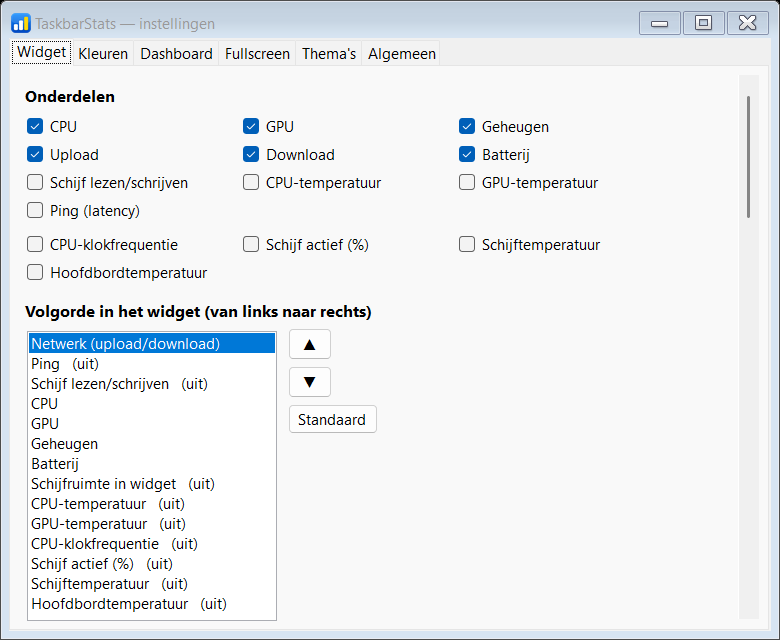
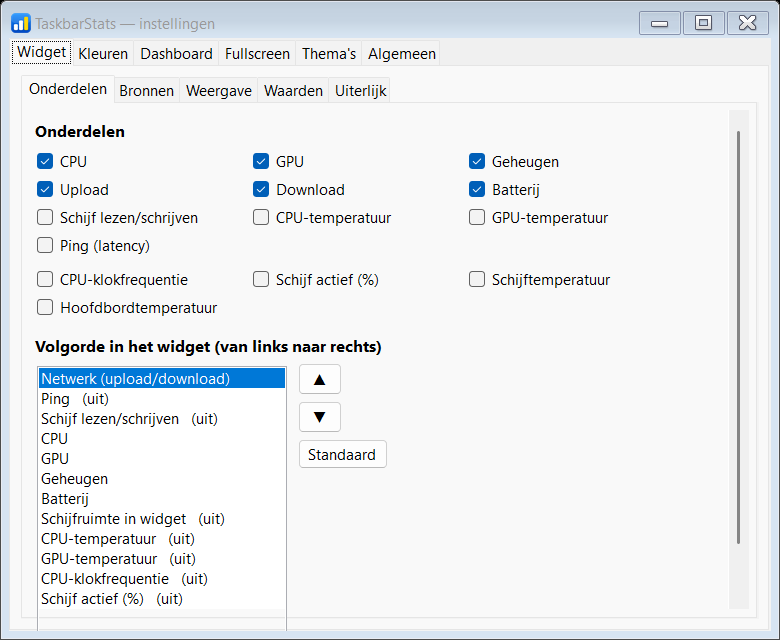
Instellingen: subtabs voor Widget, grafieklengte, vastplakken aan systeemvak (vervangt Reset positie), welkomstscherm via Over

diff --git a/src/WelcomeForm.cs b/src/WelcomeForm.cs
@@ -105,33 +105,18 @@ public sealed class WelcomeForm : Form
              "en een losse), dan volgt het widget automatisch de kaart die het drukst is.", bullet: true);
         Para("Geheugen (RAM): hoeveel procent er in gebruik is en hoeveel GB.", bullet: true);
         Para("Netwerk: de snelheid van upload en download, per netwerkadapter of van alle adapters samen.", bullet: true);
-        Para("Schijven: de lees- en schrijfsnelheid en hoeveel ruimte er nog vrij is.", bullet: true);
-        Para("Batterij (op een laptop): het niveau, en of de accu laadt of de lader is aangesloten.", bullet: true);
-        Para("Temperatuur van de processor en videokaart (optioneel).", bullet: true);
 
-        Heading("Kloppen de cijfers wel?");
-        Para("Ja. De waarden komen uit dezelfde bronnen als Taakbeheer van Windows. Wat je hier ziet, komt dus overeen met wat " +
-             "Windows zelf laat zien.");
-
-        Heading("Meer dan alleen kijken");
-        Para("Verbruik: het programma houdt per dag en per netwerkadapter bij hoeveel je hebt ontvangen en verzonden. Je kunt het " +
-             "log bekijken, exporteren en een maandlimiet voor je data instellen.", bullet: true);
-        Para("Meldingen: je krijgt een seintje als een schijf bijna vol is, de processor of videokaart langere tijd op maximaal " +
-             "draait, de batterij bijna leeg is of je maandlimiet in zicht komt.", bullet: true);
-        Para("Aanpasbaar: kies zelf de onderdelen, de weergave (cijfers, meter of balk), kleuren, lettertype, grootte en een " +
-             "transparante achtergrond. Het menu is in het Nederlands of Engels.", bullet: true);
+        Para("De waarden komen uit dezelfde bronnen als Taakbeheer van Windows. Ook: verbruik per dag, meldingen en veel aanpasbaar (onderdelen, cijfers, meter, balk of grafiek, kleuren, thema's).");
 
         Heading("Zo gebruik je het");
         Para("Verplaatsen: houd de linkermuisknop ingedrukt en sleep het widget. Je kunt het overal neerzetten; met " +
              "\"Positie vergrendelen\" zet je het vast.", bullet: true);
         Para("Instellingen: klik met de rechtermuisknop op het widget en kies \"Instellingen…\": uiterlijk, kleuren, indeling en thema's, allemaal met direct effect. Het menu zelf blijft open terwijl je meerdere dingen kiest.", bullet: true);
-        Para("Details: houd de muis erboven voor een tooltip met alle informatie. De middelste muisknop kopieert die naar het klembord.", bullet: true);
-        Para("Dubbelklik: opent Taakbeheer.", bullet: true);
         Para("Dashboard: zet via het menu (Bureaublad-dashboard) een groot dashboard op je bureaublad, en druk op Ctrl+Alt+F voor een " +
              "fullscreen overzicht met alle details. Klik daarin op een tegel voor meer, druk op I voor alle specificaties van je pc, of klik 3× op een lege plek (of druk op spatie) voor een automatische tour; Esc gaat terug.", bullet: true);
 
         Para("");
-        Para("Deze uitleg vind je later terug via het menu: \"Welkomstscherm\", \"Leesmij en credits\" en \"Over TaskbarStats\".");
+        Para("Deze uitleg vind je later terug via \"Over TaskbarStats\" in het menu (knop Welkomstscherm).");
     }
 
     private void FillEn()
@@ -147,31 +132,16 @@ public sealed class WelcomeForm : Form
              "and a dedicated one), the widget automatically follows the busiest card.", bullet: true);
         Para("Memory (RAM): the percentage in use and the amount in GB.", bullet: true);
         Para("Network: upload and download speed, per network adapter or all adapters combined.", bullet: true);
-        Para("Disks: read and write speed and how much space is left.", bullet: true);
-        Para("Battery (on a laptop): the level, and whether it is charging or plugged in.", bullet: true);
-        Para("Temperature of the processor and graphics card (optional).", bullet: true);
 
-        Heading("Are the numbers accurate?");
-        Para("Yes. The values come from the same sources as Windows Task Manager, so what you see here matches what Windows " +
-             "itself shows.");
-
-        Heading("More than just looking");
-        Para("Usage: the program keeps track, per day and per network adapter, of how much you received and sent. You can view " +
-             "and export the log and set a monthly data limit.", bullet: true);
-        Para("Notifications: you get an alert when a disk is almost full, the processor or graphics card runs at maximum for a " +
-             "while, the battery is low or your monthly limit is getting close.", bullet: true);
-        Para("Customisable: choose the components, the display (numbers, gauge or bar), colours, font, size and a transparent " +
-             "background. The menu is available in Dutch or English.", bullet: true);
+        Para("The values come from the same sources as Windows Task Manager. Also: usage per day, notifications and lots of options (components, numbers, gauge, bar or graph, colours, themes).");
 
         Heading("How to use it");
         Para("Move it: hold the left mouse button and drag the widget. Place it anywhere; use \"Lock position\" to fix it.", bullet: true);
         Para("Settings: right-click the widget and choose \"Settings…\": looks, colors, layout and themes, all with immediate effect. The menu itself stays open while you pick several options.", bullet: true);
-        Para("Details: hover for a tooltip with all information. Middle-click copies it to the clipboard.", bullet: true);
-        Para("Double-click: opens Task Manager.", bullet: true);
         Para("Dashboard: use the menu (Desktop dashboard) to put a large dashboard on your desktop, and press Ctrl+Alt+F for a " +
              "fullscreen overview with all the details. Click a tile inside for more, press I for all your PC specifications, or click 3 times on an empty spot (or press space) for an automatic tour; Esc goes back.", bullet: true);
 
         Para("");
-        Para("You can find this explanation again in the menu: \"Welcome screen\", \"Readme and credits\" and \"About TaskbarStats\".");
+        Para("You can find this explanation again via \"About TaskbarStats\" in the menu (Welcome screen button).");
     }
 }

diff --git a/src/SettingsForm.cs b/src/SettingsForm.cs
@@ -313,10 +313,8 @@ public sealed partial class SettingsForm : Form
         p.Controls.Add(Check(Loc.S("startup"), StartupManager.IsEnabled(), v => StartupManager.Set(v)));
         p.Controls.Add(Check(Loc.Pick("Positie vergrendelen", "Lock position"), _c.LockPosition, v => _c.LockPosition = v));
         p.Controls.Add(Check(Loc.Pick("Verbergen bij volledig scherm", "Hide in full screen"), _c.HideInFullscreen, v => _c.HideInFullscreen = v));
-        var reset = Btn(Loc.S("resetPos"), 170);
-        reset.Margin = new Padding(3, 6, 3, 3);
-        reset.Click += (_, _) => _h.ResetWidget();
-        p.Controls.Add(reset);
+        p.Controls.Add(Check(Loc.Pick("Vastplakken aan het systeemvak (volgt het systeemvak)", "Stick to the notification area (follows it)"), _c.StickToTray, v => _c.StickToTray = v));
+        p.Controls.Add(Note(Loc.Pick("Het widget blijft tegen het systeemvak staan, ook als dat verschuift. Verslepen zet dit weer uit.", "The widget stays next to the notification area, even when it moves. Dragging turns this off.")));
 
         p.Controls.Add(Head(Loc.Pick("Tooltip boven het widget", "Tooltip over the widget")));
         var delays = new (string, int)[]
@@ -358,6 +356,10 @@ public sealed partial class SettingsForm : Form
     private TabPage WidgetTab()
     {
         var p = Page(Loc.Pick("Widget", "Widget"), out var tab);
+        var sub = new TabControl { Dock = DockStyle.Fill };
+        tab.Controls.Clear();
+        tab.Controls.Add(sub);
+        p = SubPage(sub, Loc.Pick("Onderdelen", "Components"));
 
         p.Controls.Add(Head(Loc.S("components")));
         p.Controls.Add(Grid(
@@ -376,6 +378,7 @@ public sealed partial class SettingsForm : Form
         p.Controls.Add(Head(Loc.Pick("Volgorde in het widget (van links naar rechts)", "Order in the widget (left to right)")));
         p.Controls.Add(WidgetOrderEditor());
 
+        p = SubPage(sub, Loc.Pick("Bronnen", "Sources"));
         // Bronnen: welke GPU, netwerkadapter en schijven het widget toont (hoort bij de vinkjes hierboven).
         p.Controls.Add(Head(Loc.Pick("Bronnen", "Sources")));
         var gpuItems = new List<(string, string)> { (Loc.Pick("Automatisch (drukste)", "Automatic (busiest)"), "") };
@@ -439,6 +442,7 @@ public sealed partial class SettingsForm : Form
             driveBox.Enabled = _c.DiskSpace == DiskSpaceMode.Single;
         });
 
+        p = SubPage(sub, Loc.Pick("Weergave", "Display"));
         p.Controls.Add(Head(Loc.S("display")));
         var styles = new (string, DisplayStyle)[] { (Loc.S("digital"), DisplayStyle.Digital), (Loc.S("gauge"), DisplayStyle.Gauge), (Loc.S("bar"), DisplayStyle.Bar), (Loc.Pick("Grafiek", "Graph"), DisplayStyle.Graph) };
         var cpuStyle = Seg(styles, () => _c.CpuStyle, v => _c.CpuStyle = v);
@@ -480,8 +484,10 @@ public sealed partial class SettingsForm : Form
         }, ColW);
         p.Controls.Add(Grid(labels, compact, Check(Loc.S("transparent"), _c.TransparentBackground, v => _c.TransparentBackground = v, ColW)));
 
+        p = SubPage(sub, Loc.Pick("Waarden", "Values"));
         AddValueSettings(p);
 
+        p = SubPage(sub, Loc.Pick("Uiterlijk", "Appearance"));
         p.Controls.Add(Head(Loc.Pick("Afmetingen en lettertype", "Size and font")));
         var heights = new List<(string, int)> { (Loc.Pick("Auto", "Auto"), 0) };
         foreach (int h in new[] { 32, 36, 40, 44, 48, 56, 64 }) heights.Add(($"{h}", h));
@@ -519,6 +525,8 @@ public sealed partial class SettingsForm : Form
             batt.Enabled = _c.ShowBattery;
             labels.Enabled = !_c.Compact;
         });
+        sub.SelectedIndex = Math.Clamp(_widgetSub, 0, sub.TabPages.Count - 1);
+        sub.SelectedIndexChanged += (_, _) => { if (!_building) _widgetSub = sub.SelectedIndex; };
         return tab;
     }
 

diff --git a/src/WidgetForm.cs b/src/WidgetForm.cs
@@ -161,7 +161,10 @@ public sealed partial class WidgetForm : Form
         base.OnShown(e);
         Height = TargetHeight();
         if (_cfg.FloatX is null || _cfg.FloatY is null)
+        {
             (_cfg.FloatX, _cfg.FloatY) = ComputeDefaultPosition();
+            _cfg.StickToTray = true;   // nieuwe installatie: tegen het systeemvak blijven staan
+        }
         Location = new Point(_cfg.FloatX!.Value, _cfg.FloatY!.Value);
         // Stond het widget op een scherm dat er niet meer is? Dan terug naar de standaardpositie.
         if (!Screen.AllScreens.Any(sc => sc.Bounds.IntersectsWith(Bounds)))
@@ -212,6 +215,7 @@ public sealed partial class WidgetForm : Form
         _idle = !Visible && _dash is not { Visible: true } && _full is null;
         _metrics.Ping.Idle = _idle;
         if (_idle) { CheckAlerts(); return; }
+        FollowTray();
         _history.Sample(_metrics);
         SampleGraph();
         if (_hover && Environment.TickCount64 - _procAt >= 700) { _procAt = Environment.TickCount64; _procs.SampleAsync(); }
@@ -678,6 +682,7 @@ public sealed partial class WidgetForm : Form
     /// <summary>Past alle instellingen toe op widget, dashboard en fullscreen-scherm (aangeroepen door het instellingenvenster).</summary>
     private void ApplyAll()
     {
+        if (_cfg.StickToTray) FollowTray(true);
         BackColor = EffectiveBackground();
         WinThemeRefresh();
         ApplyHeight();
@@ -1248,6 +1253,7 @@ public sealed partial class WidgetForm : Form
     {
         if (_dragging)
         {
+            if (_cfg.StickToTray) _cfg.StickToTray = false;   // zelf verplaatst: niet meer vastplakken
             Location = new Point(Location.X + e.X - _dragStart.X, Location.Y + e.Y - _dragStart.Y);
             _cfg.FloatX = Location.X; _cfg.FloatY = Location.Y;
         }
@@ -1377,19 +1383,15 @@ public sealed partial class WidgetForm : Form
         menu.Items.Add(BuildFullMenu());
         menu.Items.Add(BuildTourMenu());
 
-        var resetItem = new ToolStripMenuItem(Loc.S("resetPos")) { Tag = "close" };
-        resetItem.Click += (_, _) => ResetWidgetPosition();
-        menu.Items.Add(resetItem);
+        var stickItem = new ToolStripMenuItem(Loc.Pick("Vastplakken aan systeemvak", "Stick to notification area")) { Tag = "close", Checked = _cfg.StickToTray };
+        stickItem.Click += (_, _) => SetStickToTray(!_cfg.StickToTray);
+        menu.Items.Add(stickItem);
         AddClickThroughMenuItem(menu);
 
         menu.Items.Add(new ToolStripSeparator());
         var copy = new ToolStripMenuItem(Loc.Pick("Kopieer info naar klembord", "Copy info to clipboard")) { Tag = "close" };
         copy.Click += (_, _) => CopyInfo();
         menu.Items.Add(copy);
-
-        var welcome = new ToolStripMenuItem(Loc.Pick("Welkomstscherm", "Welcome screen")) { Tag = "close" };
-        welcome.Click += (_, _) => ShowWelcome();
-        menu.Items.Add(welcome);
 
         var readme = new ToolStripMenuItem(Loc.Pick("Leesmij en credits", "Readme and credits")) { Tag = "close" };
         readme.Click += (_, _) =>
@@ -1401,7 +1403,7 @@ public sealed partial class WidgetForm : Form
         menu.Items.Add(readme);
 
         var about = new ToolStripMenuItem(Loc.Pick("Over TaskbarStats…", "About TaskbarStats…")) { Tag = "close" };
-        about.Click += (_, _) => { using var f = new AboutForm(); f.ShowDialog(this); };
+        about.Click += (_, _) => { using var f = new AboutForm(() => BeginInvoke(new Action(ShowWelcome))); f.ShowDialog(this); };
         menu.Items.Add(about);
 
         menu.Items.Add(new ToolStripSeparator());

diff --git a/src/Themes.cs b/src/Themes.cs
@@ -26,6 +26,7 @@ public sealed partial class ThemeData
     public DisplayStyle GpuTempStyle { get; set; }
     public bool TempMerge { get; set; }
     public int GraphSeconds { get; set; } = 60;
+    public GraphLen GraphLength { get; set; } = GraphLen.Medium;
     public TextGraphStyle NetStyle { get; set; }
     public TextGraphStyle PingStyle { get; set; }
     public bool CpuPerCore { get; set; }
@@ -70,7 +71,7 @@ public sealed partial class ThemeData
             ShowCpuFreq = c.ShowCpuFreq, ShowDiskBusy = c.ShowDiskBusy, DiskBusyStyle = c.DiskBusyStyle, ShowDiskTemp = c.ShowDiskTemp, ShowMoboTemp = c.ShowMoboTemp,
             CpuStyle = c.CpuStyle, GpuStyle = c.GpuStyle, MemStyle = c.MemStyle, CpuPerCore = c.CpuPerCore,
             CpuTempStyle = c.CpuTempStyle, GpuTempStyle = c.GpuTempStyle, TempMerge = c.TempMerge,
-            GraphSeconds = c.GraphSeconds, NetStyle = c.NetStyle, PingStyle = c.PingStyle,
+            GraphSeconds = c.GraphSeconds, GraphLength = c.GraphLength, NetStyle = c.NetStyle, PingStyle = c.PingStyle,
             BatteryPercent = c.BatteryPercent, LabelsAbove = c.LabelsAbove, Compact = c.Compact, AutoHeight = c.AutoHeight,
             WidgetHeight = c.WidgetHeight, FontFamily = c.FontFamily, FontSize = c.FontSize, TransparentBackground = c.TransparentBackground,
             TextColor = c.TextColor, BackgroundColor = c.BackgroundColor, AccentColor = c.AccentColor, WarnColor = c.WarnColor,
@@ -91,7 +92,7 @@ public sealed partial class ThemeData
         c.ShowCpuFreq = ShowCpuFreq; c.ShowDiskBusy = ShowDiskBusy; c.DiskBusyStyle = DiskBusyStyle; c.ShowDiskTemp = ShowDiskTemp; c.ShowMoboTemp = ShowMoboTemp;
         c.CpuStyle = CpuStyle; c.GpuStyle = GpuStyle; c.MemStyle = MemStyle; c.CpuPerCore = CpuPerCore;
         c.CpuTempStyle = CpuTempStyle; c.GpuTempStyle = GpuTempStyle; c.TempMerge = TempMerge;
-        c.GraphSeconds = GraphSeconds <= 30 ? 30 : GraphSeconds >= 120 ? 120 : 60; c.NetStyle = NetStyle; c.PingStyle = PingStyle;
+        c.GraphSeconds = GraphSeconds <= 30 ? 30 : GraphSeconds >= 120 ? 120 : 60; c.GraphLength = GraphLength; c.NetStyle = NetStyle; c.PingStyle = PingStyle;
         c.BatteryPercent = BatteryPercent; c.Compact = Compact; c.LabelsAbove = LabelsAbove || Compact;   // compact hoort bij labels boven
         c.AutoHeight = AutoHeight;
         c.WidgetHeight = Math.Clamp(WidgetHeight, 24, 96);

diff --git a/src/SettingsForm.Graph.cs b/src/SettingsForm.Graph.cs
@@ -16,7 +16,12 @@ public sealed partial class SettingsForm
         p.Controls.Add(Row(Loc.Pick("Netwerk", "Network"), netStyle));
         p.Controls.Add(Row(Loc.Pick("Netwerkgrafiek: schaal", "Network graph: scale"), netMax));
         p.Controls.Add(Row("Ping", pingStyle));
-        p.Controls.Add(Row(Loc.Pick("Grafiek toont de laatste", "Graph shows the last"), secs));
+        var len = Seg(new (string, GraphLen)[]
+        {
+            (Loc.Pick("Kort", "Short"), GraphLen.Short), (Loc.Pick("Middel", "Medium"), GraphLen.Medium), (Loc.Pick("Lang", "Long"), GraphLen.Long),
+        }, () => _c.GraphLength, v => _c.GraphLength = v, 76);
+        p.Controls.Add(Row(Loc.Pick("Lengte van de grafiek", "Graph length"), len));
+        p.Controls.Add(Row(Loc.Pick("Periode: de laatste", "Period: the last"), secs));
         Dep(() =>
         {
             netStyle.Enabled = _c.ShowNetUp || _c.ShowNetDown;
@@ -29,7 +34,7 @@ public sealed partial class SettingsForm
             bool gt = _c.ShowGpuTemp && !(_c.TempMerge && _c.ShowGpu) && _c.GpuTempStyle == DisplayStyle.Graph;
             bool net = netStyle.Enabled && _c.NetStyle == TextGraphStyle.Graph;
             bool ping = _c.ShowPing && _c.PingStyle == TextGraphStyle.Graph;
-            secs.Enabled = cpu || gpu || mem || ct || gt || net || ping;
+            secs.Enabled = len.Enabled = cpu || gpu || mem || ct || gt || net || ping;
         });
     }
 }

diff --git a/src/AboutForm.cs b/src/AboutForm.cs
@@ -14,7 +14,7 @@ public sealed class AboutForm : Form
         }
     }
 
-    public AboutForm()
+    public AboutForm(Action? showWelcome = null)
     {
         AppIcon.Apply(this);
         Text = Loc.Pick("Over TaskbarStats", "About TaskbarStats");
@@ -64,10 +64,18 @@ public sealed class AboutForm : Form
             Location = new Point(464, 458),
             Size = new Size(80, 28),
         };
+        var welcome = new Button
+        {
+            Text = Loc.Pick("Welkomstscherm…", "Welcome screen…"),
+            Location = new Point(16, 458),
+            Size = new Size(150, 28),
+            Visible = showWelcome is not null,
+        };
+        welcome.Click += (_, _) => { DialogResult = DialogResult.OK; Close(); showWelcome?.Invoke(); };
         AcceptButton = ok;
         CancelButton = ok;
 
-        Controls.AddRange(new Control[] { title, version, box, ok });
+        Controls.AddRange(new Control[] { title, version, box, welcome, ok });
     }
 
     private static string Body() => Loc.Lang == "en" ? BodyEn : BodyNl;

diff --git a/src/AppSettings.Graph.cs b/src/AppSettings.Graph.cs
@@ -3,10 +3,14 @@ namespace TaskbarStats;
 /// <summary>Weergave voor onderdelen die alleen cijfers of een grafiek kennen (netwerk, ping).</summary>
 public enum TextGraphStyle { Digital, Graph }
 
+/// <summary>Breedte van een grafiekje in het widget.</summary>
+public enum GraphLen { Short, Medium, Long }
+
 // Instellingen voor de mini-geschiedenisgrafiek in het taakbalk-widget.
 public sealed partial class AppSettings
 {
     public int GraphSeconds { get; set; } = 60;                    // hoeveel seconden de grafiek toont (30/60/120)
+    public GraphLen GraphLength { get; set; } = GraphLen.Medium;    // breedte van het grafiekje: kort / middel / lang
     public TextGraphStyle NetStyle { get; set; } = TextGraphStyle.Digital;
     public TextGraphStyle PingStyle { get; set; } = TextGraphStyle.Digital;
     public int NetGraphMaxMBps { get; set; } = 0;                  // schaal van de netwerkgrafiek in MB/s; 0 = automatisch

diff --git a/src/WidgetForm.Stick.cs b/src/WidgetForm.Stick.cs
@@ -1,0 +1,23 @@
+namespace TaskbarStats;
+
+// Vastplakken aan het systeemvak: de rechterrand van het widget blijft tegen het vak staan.
+public sealed partial class WidgetForm
+{
+    private void SetStickToTray(bool on)
+    {
+        _cfg.StickToTray = on;
+        if (on) FollowTray(true);
+        Persist();
+    }
+
+    // Het systeemvak verschuift door pictogrammen, taakbalkgrootte, schaling of schermresolutie: volg het.
+    private void FollowTray(bool force = false)
+    {
+        if (!_cfg.StickToTray || _dragging || _fxOn || !IsHandleCreated) return;
+        if (!TaskbarHost.TryGetTrayRect(out _)) return;   // geen systeemvak gevonden (bv. Verkenner herstart): laat staan
+        var (x, y) = ComputeDefaultPosition();
+        if (!force && Location.X == x && Location.Y == y) return;
+        Location = new Point(x, y);
+        _cfg.FloatX = x; _cfg.FloatY = y;
+    }
+}

diff --git a/src/SettingsForm.Sub.cs b/src/SettingsForm.Sub.cs
@@ -1,0 +1,16 @@
+namespace TaskbarStats;
+
+// Hulp voor subtabbladen (het tabblad Widget is verdeeld in Onderdelen, Bronnen, Weergave, Waarden en Uiterlijk).
+public sealed partial class SettingsForm
+{
+    private int _widgetSub;   // onthoudt het gekozen subtabblad als het venster opnieuw wordt opgebouwd
+
+    private static FlowLayoutPanel SubPage(TabControl host, string title)
+    {
+        var page = new TabPage(title) { Padding = new Padding(6), UseVisualStyleBackColor = true };
+        var fp = new FlowLayoutPanel { Dock = DockStyle.Fill, FlowDirection = FlowDirection.TopDown, WrapContents = false, AutoScroll = true };
+        page.Controls.Add(fp);
+        host.TabPages.Add(page);
+        return fp;
+    }
+}

diff --git a/src/WidgetForm.Graph.cs b/src/WidgetForm.Graph.cs
@@ -39,7 +39,7 @@ public sealed partial class WidgetForm
         label = Cadence.L(label);
         bool above = _cfg.LabelsAbove;
         var (top, h) = Area(g);
-        int gw = (int)Math.Round(60 * UiScale), gh = above ? h : Height - 10;
+        int gw = (int)Math.Round((_cfg.GraphLength == GraphLen.Short ? 36 : _cfg.GraphLength == GraphLen.Long ? 96 : 60) * UiScale), gh = above ? h : Height - 10;
         int lw = above ? LabelWidth(g, label) : DrawLabel(g, x, label);
         int cellW = above ? Math.Max(gw, lw) : lw + 3 + gw;
         if (above) DrawTopLabel(g, x, cellW, label);

diff --git a/src/AppSettings.Stick.cs b/src/AppSettings.Stick.cs
@@ -1,0 +1,7 @@
+namespace TaskbarStats;
+
+public sealed partial class AppSettings
+{
+    /// <summary>Widget blijft tegen het systeemvak staan en volgt het als dat verschuift (verslepen zet dit uit).</summary>
+    public bool StickToTray { get; set; } = false;
+}

diff --git a/README.md b/README.md
@@ -17,6 +17,7 @@ overeenkomen met Task Manager. Daarnaast een groot bureaublad-dashboard en een f
 
 ![Menu](docs/screenshots/menu.png)
 ![Instellingen: widget](docs/screenshots/settings-widget.png)
+![Instellingen: widget, subtabblad Weergave](docs/screenshots/settings-widget-weergave.png)
 ![Instellingen: dashboard met volgorde](docs/screenshots/settings-dashboard.png)
 ![Instellingen: fullscreen met voorbeeld van de indeling](docs/screenshots/settings-fullscreen.png)
 ![Instellingen: algemeen](docs/screenshots/settings-general.png)
@@ -123,7 +124,7 @@ Aanpassen van naam, credits of tekst: `installer\Leesmij.txt`, `CreditsForm.cs` 
 Start `TaskbarStats.exe`. Het widget verschijnt als zwevend, altijd-bovenliggend venster
 direct links van het systeemvak. Het is eigenaar-venster van de taakbalk, dus het blijft
 erboven staan. Sleep met de **linkermuisknop** om het te verplaatsen (de positie wordt
-bij loslaten bewaard); de instellingen (tab Algemeen) hebben "Reset positie".
+bij loslaten bewaard); in de instellingen (tab Algemeen) en in het menu staat "Vastplakken aan systeemvak": dan blijft het widget tegen het systeemvak staan en volgt het als dat verschuift (verslepen zet dit weer uit).
 
 **Rechtermuisknop** op het widget opent een kort menu:
 
@@ -137,11 +138,11 @@ bij loslaten bewaard); de instellingen (tab Algemeen) hebben "Reset positie".
   - *Dashboard*: tonen, voor-/achtergrond, klik-door, vergrendelen, doorzichtigheid, schaal, kolommen, en **volgorde en aan/uit per hoofdonderdeel**.
   - *Fullscreen*: welk scherm, en volgorde en aan/uit per hoofdonderdeel, met een voorbeeld van de indeling.
   - *Thema's*: 16 meegeleverde thema's (Standaard, Donker, Licht, Zwart-wit, Liefde, CGA, Matrix, Amber, Game Boy, Dracula, Oceaan, Zonsondergang, Bos, Minimaal, Meters, Neon); eigen thema opslaan, laden, verwijderen, importeren en exporteren (zie hieronder).
-  - *Algemeen*: taal (NL/EN), met Windows meestarten (geplande taak, geen UAC-melding), positie vergrendelen/resetten, verbergen bij volledig scherm, **wachttijd van de tooltip** (minimaal 2 s, standaard 2 s, of uit), meldingen (bijna volle schijf, langdurig hoge belasting), maandlimiet voor netwerkverbruik en het verbruikslog.
+  - *Algemeen*: taal (NL/EN), met Windows meestarten (geplande taak, geen UAC-melding), positie vergrendelen en vastplakken aan het systeemvak, verbergen bij volledig scherm, **wachttijd van de tooltip** (minimaal 2 s, standaard 2 s, of uit), meldingen (bijna volle schijf, langdurig hoge belasting), maandlimiet voor netwerkverbruik en het verbruikslog.
 - **Thema**: snelkeuze om met één klik een thema toe te passen.
 - **Verbruik**: ontvangen/verzonden per netwerkadapter (sessie, vandaag, gisteren, 7 dagen, maand) en het log per dag met CSV-export.
-- **Reset positie** (zet het widget terug naast het systeemvak).
-- **Bureaublad-dashboard** (tonen, klik-door, vergrendelen) en **Fullscreen dashboard**, plus *Kopieer info*, *Welkomstscherm*, *Leesmij en credits*, *Over* en **Afsluiten**.
+- **Vastplakken aan systeemvak** (het widget blijft tegen het systeemvak staan en volgt het).
+- **Bureaublad-dashboard** (tonen, klik-door, vergrendelen) en **Fullscreen dashboard**, plus *Kopieer info*, *Leesmij en credits*, *Over* (met een knop voor het welkomstscherm) en **Afsluiten**.
 - **Tooltip**: houd de muis minstens 2 s (instelbaar) boven het widget voor alle details (RAM in GB, per-GPU, netwerk per adapter, schijven en schijfruimte, temperaturen).
 - **Batterij** (laptops): staande batterij met niveau, kleur en bliksem/stekker; percentage in, naast of uit.
 
@@ -191,9 +192,11 @@ Instellingen → *Fullscreen*. Een klik of toets stopt de tour.
 
 **Extra onderdelen** voor het widget: CPU-klokfrequentie, schijf actief (%), schijftemperatuur en hoofdbordtemperatuur. De laatste twee lezen sensoren via LibreHardwareMonitor (administrator nodig) en verdwijnen vanzelf als er geen waarde is.
 
-**Grafiek als weergavestijl**: CPU, GPU, geheugen, temperaturen, netwerk (download en upload als twee lijnen, schaal automatisch of vast) en ping kunnen als mini-geschiedenisgrafiek in het widget (laatste 30, 60 of 120 seconden). Ontbrekende pings (geen antwoord) onderbreken de lijn met een rode punt.
+**Grafiek als weergavestijl** (lengte kort, middel of lang; periode 30/60/120 s): CPU, GPU, geheugen, temperaturen, netwerk (download en upload als twee lijnen, schaal automatisch of vast) en ping kunnen als mini-geschiedenisgrafiek in het widget (laatste 30, 60 of 120 seconden). Ontbrekende pings (geen antwoord) onderbreken de lijn met een rode punt.
 
 ![Widget met de nieuwe onderdelen, grafieken en opmaak](docs/screenshots/widget-nieuw.png)
+
+![Grafiek in drie lengtes: kort, middel, lang](docs/screenshots/widget-grafieklengte.png)
 
 **Achtergrondafbeelding**: kies per venster (widget, dashboard en fullscreen; Instellingen, tabbladen *Widget*, *Dashboard* en *Fullscreen*) een png/jpg/bmp met modus *Vullen*, *Uitgerekt*, *Passen*, *Tegelen* of *Gecentreerd* en een dekking van 0–100%. De afbeelding komt onder de tekst en tegels; ontbreekt het bestand, dan geldt de gewone achtergrond. Paden horen niet bij thema's.
 
